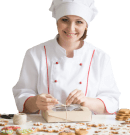
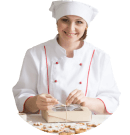
Конечные правки

diff --git a/src/partials/speakers.html b/src/partials/speakers.html
@@ -3,41 +3,70 @@
     <h2 class="speakers__title">Speakers</h2>
     <ul class="speakers__list">
         <li class="speakers__item">
-            <div class="speakers__image-holder">
-                <div class="speakers__round">
+            <div class="speakers__round">
+             <picture> 
+                <source srcset="./images/molly-desktop-1x.png 1x, ./images/molly-desktop-2x.png 2x"
+                media="(min-width:1200px)"/>  
+              
+                <source srcset="./images/molly-tablet-1x.png 1x, ./images/molly-tablet-2x.png 2x"
+                media="(min-width:768px)"/>
+
+                <source srcset="./images/molly-mobile-1x.png 1x, ./images/molly-mobile-2x.png 2x"
+                media="(min-width:320px)"/>
             <img class="speakers__image" src="./images/molly-mobile-1x.png" alt="Molly Rivera">
-            </div>
-            <img class="speakers__image-top" src="./images/top.molly-mobile-1x.png" alt="Molly Rivera">
+           </picture>
             </div>
             <h3 class="speakers__item-title">Molly Rivera</h3>
             <p class="speakers__item-text">Pastry chef, master chocolatier of Spain</p>
         </li>
         <li class="speakers__item">
-            <div class="speakers__image-holder">
-                <div class="speakers__round">
+            <div class="speakers__round">
+             <picture> 
+                <source srcset="./images/sophia-desktop-1x.png 1x, ./images/sophia-desktop-2x.png 2x"
+                media="(min-width:1200px)"/>  
+              
+                <source srcset="./images/sophia-tablet-1x.png 1x, ./images/sophia-tablet-2x.png 2x"
+                media="(min-width:768px)"/>
+
+                <source srcset="./images/sophia-mobile-1x.png 1x, ./images/sophia-mobile-2x.png 2x"
+                media="(min-width:320px)"/>
             <img class="speakers__image" src="./images/sophia-mobile-1x.png" alt="Sophia Clark">
+            </picture>
              </div>
-            <img class="speakers__image-top" src="./images/top.sophia-mobile-1x.png" alt="Sophia Clark">
-             </div>
+            
             <h3 class="speakers__item-title">Sophia Clark</h3>
             <p class="speakers__item-text">Сulinary school pastry chef</p>
         </li>
          <li class="speakers__item">
-             <div class="speakers__image-holder">
-                <div class="speakers__round">
+             <div class="speakers__round">
+             <picture> 
+                <source srcset="./images/bella-desktop-1x.png 1x, ./images/bella-desktop-2x.png 2x"
+                media="(min-width:1200px)"/>  
+              
+                <source srcset="./images/bella-tablet-1x.png 1x, ./images/bella-tablet-2x.png 2x"
+                media="(min-width:768px)"/>
+
+                <source srcset="./images/bella-mobile-1x.png 1x, ./images/bella-mobile-2x.png 2x"
+                media="(min-width:320px)"/>
              <img class="speakers__image" src="./images/bella-mobile-1x.png" alt="Isabella Taylor">
+             </picture>
               </div>
-            <img class="speakers__image-top" src="./images/top.bella-mobile-1x.png" alt="Isabella Taylor">
-             </div>
             <h3 class="speakers__item-title">Isabella Taylor</h3>
             <p class="speakers__item-text">Сonsultant in the art of confectionery</p>
         </li>
          <li class="speakers__item">
-             <div class="speakers__image-holder">
-                <div class="speakers__round">
-            <img class="speakers__image" src="./images/evel-mobile-1x.png" alt="Evelyn Miller">
-             </div>
-            <img class="speakers__image-top" src="./images/top.evel-mobile-1x.png" alt="Evelyn Miller">
+             <div class="speakers__round">
+              <picture> 
+                <source srcset="./images/evel-desktop-1x.png 1x, ./images/evel-desktop-2x.png 2x"
+                media="(min-width:1200px)"/>  
+              
+                <source srcset="./images/evel-tablet-1x.png 1x, ./images/evel-tablet-2x.png 2x"
+                media="(min-width:768px)"/>
+
+                <source srcset="./images/evel-mobile-1x.png 1x, ./images/evel-mobile-2x.png 2x"
+                media="(min-width:320px)"/>
+             <img class="speakers__image" src="./images/bella-mobile-1x.png" alt="Isabella Taylor">
+             </picture> 
              </div>
             <h3 class="speakers__item-title">Evelyn Miller</h3>
             <p class="speakers__item-text">Master- chocolatier in Spain</p>

diff --git a/src/sass/components/_speakers.scss b/src/sass/components/_speakers.scss
@@ -1,0 +1,82 @@
+img {
+  display: block;
+  width: 100%;
+  height: auto;
+}
+.speakers__title {
+  font-weight: 500;
+  font-size: 24px;
+  line-height: 1.21;
+  text-align: center;
+  color: #3C322D;
+  margin-bottom:24px;
+
+  @media screen and (min-width: $tablet) {
+    font-size: 32px;
+    margin-bottom:27px;
+  }
+}
+.speakers__list {
+  display:flex;
+  gap:20px;
+  flex-wrap: wrap;
+  list-style: none;
+  padding: 0;
+
+  @media screen and (min-width: $tablet) {
+    gap:32px;
+  }
+}
+.speakers__item {
+  flex-basis:calc((100% - 20px)/2);
+  display: flex;
+  flex-direction: column;
+  align-items: center;
+
+  @media screen and (min-width: $tablet) {
+    flex-basis:calc((100% - 96px)/4);
+  }
+}
+
+
+.speakers__round {
+  position: relative;
+  background-color: #f3848c4a;
+  border-radius: 50%;
+  max-height: 100%;
+  max-width: 100%;
+  width: 100%;
+  aspect-ratio: 1 / 1;
+}
+.speakers__item-title {
+  margin-top:12px;
+  font-weight: 600;
+  font-size: 16px;
+  line-height: 1.22;
+  text-align: center;
+
+  @media screen and (min-width: $tablet) {
+    margin-top:20px;
+    font-size: 18px;
+  }
+}
+.speakers__item-text {
+  margin-top:12px;
+  font-weight: 500;
+  font-size: 12px;
+  line-height: 1.21;
+  text-align: center;
+
+  @media screen and (min-width: $tablet) {
+    margin-top:20px;
+    font-size: 14px;
+  }
+
+  @media screen and (min-width: $desktop) {
+    font-size: 16px;
+  }
+}
+.speakers__image {
+  position: absolute;
+  bottom: 0;
+}
